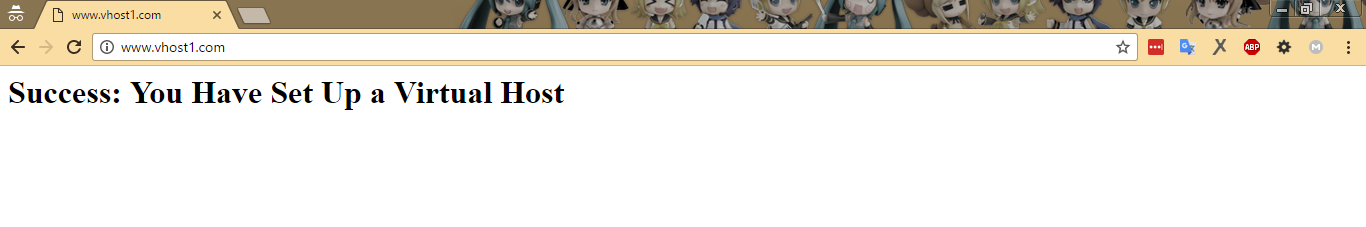
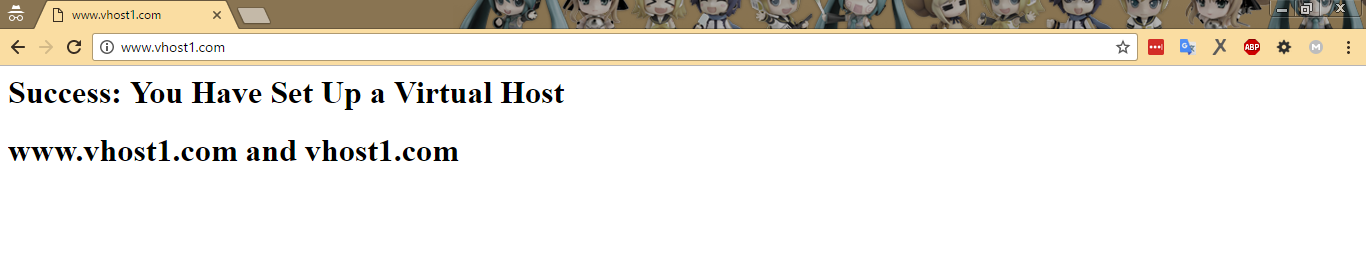
fixed

Changed region(s): [[0.0, 0.0, 1.0, 0.4934], [0.0, 0.5551, 0.3382, 0.6476]]

diff --git a/docs/nginx-virtualhost.md b/docs/nginx-virtualhost.md
@@ -3,32 +3,36 @@
 
 # Mục lục
 
-- [Virtual Host là gì?](#virtual-host)
-- [Cách tạo và cấu hình cho một Virtual Host](#configure)
-- [Cấu hình nhiều sử dụng nhiều Virtual Host trên cùng một server](#multiple-host)
+1. [Virtual Host là gì?](#virtual-host)
+2. [Cách tạo và cấu hình cho một Virtual Host](#configure)
+3. [Cấu hình nhiều sử dụng nhiều Virtual Host trên cùng một server](#multiple-host)
 
 # Nội dung
 
-- ##### <a name="virtual-host">Virtual Host là gì?</a>
+- #### <a name="virtual-host">Virtual Host là gì?</a>
     
     + *Virtual Host* là một kỹ thuật cho phép nhiều website có thể dùng chung một địa chỉ ip duy nhất. Thuật ngữ này được sử dụng với các website sử dụng Apache server. Trong các website sử dụng Nginx server thì nó được gọi là các *Server Block* sử dụng khai báo qua *server_name* trong file cấu hình và có thể lắng nghe các chỉ thị để liên kết với tcp sockets.
     + Đây là kỹ thuật dùng để cấu hình cho web server khi bạn muốn có nhiều tên miền để cung cấp nhiều website được sử dụng chung trên cùng một máy chủ.
         ![virtual host](../images/virhost.png)
 
 
-- ##### <a name="configure">Cách tạo và cấu hình cho một Virtual Host</a>
+- #### <a name="configure">Cách tạo và cấu hình cho một Virtual Host</a>
 
     + Để thiết lập được một *Server Block* trong nginx. Ta cần phải trải qua các bước sau:
-        
-        * Bước 1: Tạo một file cấu hình cho *Block Server* mới.
-        * Bước 2: Tạo một cây thư mục chứa nội dung website cho *Server Block* mới.
-        * Bước 3: Thêm nội dung của trang web để kiểm tra cấu hình
-    Đó là 3 bước cơ bản để tạo ra một *Server Block* mới trong nginx để chia sẻ địa chỉ ip cho nhiều website cùng sử dụng. Dưới đây sẽ là chi tiết về nội dung của 3 bước trên.
+        * Bước 1: [Cài đặt nginx trên CentOS 7](#1)
+        * Bước 2: [Tạo một file cấu hình cho *Block Server* mới.](#2)
+        * Bước 3: [Tạo một cây thư mục chứa nội dung website cho *Server Block* mới.](#3)
+        * Bước 4: [Thêm nội dung của trang web để kiểm tra cấu hình](#4)
+
+        Đó là 3 bước cơ bản để tạo ra một *Server Block* mới trong nginx để chia sẻ địa chỉ ip cho nhiều website cùng sử dụng. Dưới đây sẽ là chi tiết về nội dung của 4 bước trên.
 
 
+    + Bước 1: Cài đặt nginx trên CentOS 7:
+    <a name="1"></a>
+        - Xem chi tiết cài đặt [tại đây](nginx-install.md#2)
 
-    + Bước 1: Tạo một file cấu hình cho *Block Server* mới.
-
+    + Bước 2: Tạo một file cấu hình cho *Block Server* mới.
+ <a name="2"></a>
         - Trong thư mục cấu hình của nginx đã phân chia khá rõ ràng về tác dụng của các thư mục. Ta có */etc/nginx/nginx.conf* chính là file cấu hình chính cho nginx, */etc/nginx/conf.d/* là thư mục chứa các file cấu hình khác cho server, thông thường thì đây là thư mục được sử dụng để chứa các file cấu hình cho *Server Block*. Để tạo file cấu hình mới cho *Server Block* ta sử dụng câu lệnh sau:
 
                 # vi /etc/nginx/conf.d/vhost1.com.conf
@@ -53,8 +57,8 @@
 
                 192.168.19.35       vhost1.com www.vhost1.com
     
-    + Bước 2: Tạo một cây thư mục chứa nội dung website cho *Server Block* mới.
-
+    + Bước 3: Tạo một cây thư mục chứa nội dung website cho *Server Block* mới.
+ <a name="3"></a>
         - Ta cần tạo mới một cây thư mục để lưu trữ nội dung cho website có server_name mới này bằng việc sử dụng câu lệnh sau:
 
                 # mkdir /usr/share/nginx/vhost1.com
@@ -62,8 +66,8 @@
         
         - Ta cần chạy câu lệnh *chown nginx:nginx -R /usr/share/nginx/vhost1.com* để cho phép nginx có thể truy cập và sử dụng tài nguyên ở đó. Lưu ý là: cây thư mục vừa tạo cần phải giống với giá trị trong dòng *root* ở file cấu hình trong Bước 1.
 
-    + Bước 3: Thêm nội dung của trang web để kiểm tra cấu hình
-
+    + Bước 4: Thêm nội dung của trang web để kiểm tra cấu hình
+ <a name="4"></a>
         - Để kiểm tra cấu hình đã chính xác hay chưa, ta nên tạo thêm một file *index.html* trong thư mục vừa tạo ở bước 2 để kiểm tra. Ta sử dụng câu lệnh:
 
                 vi  /usr/share/nginx/vhost1.com/index.html
@@ -90,19 +94,24 @@
 
             Theo các bước làm trên, ta đã tiến hành thành công tạo một virtual host cho web server của mình.
 
-- ##### <a name="multiple-host">Cấu hình nhiều sử dụng nhiều Virtual Host trên cùng một server</a>
+- #### <a name="multiple-host">Cấu hình nhiều sử dụng nhiều Virtual Host trên cùng một server</a>
 
     + Nội dung trong phần này sẽ nói về cách để bạn thực hiện cấu hình server sao cho có thể nhiều website cùng sử dụng chung một địa chỉ ip duy nhất. Để thực hiện cấu hình, ta cần trải qua các bước sau:
 
-        - Bước 1: Cấu hình domain chính cho server.
-        - Bước 2: Cấu hình tạo ra các virtual host (Server Block)
-        - Bước 3: Thực hiện trỏ host trên client để kiểm tra kết quả
+        - Bước 1: Cài đặt nginx
+        - Bước 2: Cấu hình domain chính cho server.
+        - Bước 3: Cấu hình tạo ra các virtual host (Server Block)
+        - Bước 4: Thực hiện trỏ host trên client để kiểm tra kết quả
 
-        Đó là 3 bước chính để thực hiện cấu hình cho nội dung phần này. Chi tiết như sau:
+        Đó là 4 bước chính để thực hiện cấu hình cho nội dung phần này. Chi tiết như sau:
+    
+    + Bước 1: Cài đặt nginx
 
-    + Bước 1: Cấu hình domain chính cho server
+        Xem chi tiết [tại đây](nginx-install.md#2)
 
-        - Bản chất của bước này chính là tạo ra một domain chính cho server thay vì truy cập tới server qua địa chỉ ip. Để làm điều này, ta tiến hành sửa nội dung của file cấu hình chính cho nginx tại */etc/nginx/nginx.conf*. Tìm tới dòng có nội dung *server_name     _;* trong vùng cấu hình của *http*. Thay *_* bằng tên miền mà bạn muốn sử dụng. Ví dụ:
+    + Bước 2: Cấu hình domain chính cho server
+
+        - Ta tiến hành sửa nội dung của file cấu hình chính cho nginx tại */etc/nginx/nginx.conf*. Tìm tới dòng có nội dung *server_name     _;* trong vùng cấu hình của *http*. Thay *_* bằng tên miền mà bạn muốn sử dụng. Ví dụ:
 
                 http {
                     ...
@@ -114,9 +123,9 @@
                     ...
                 }
 
-    - Bước 2: Cấu hình tạo ra các Virtual Host.
+    - Bước 3: Cấu hình tạo ra các Virtual Host.
 
-        - Nội dung cấu hình trong bước làm này tương tự như tạo một virtual host đã nói phía trên. Bạn có thể xem chi tiết ở [đây](#configure). Giả sử, trong bước làm này, ta muốn cấu hình đặt 2 virtual host thì ta làm như sau:
+        - Nội dung cấu hình trong bước làm này tương tự như tạo một virtual host đã nói phía trên. Bạn có thể xem chi tiết ở [đây](#configure).
 
         - Bước 1: Tạo virtual host thứ nhất.
 
@@ -133,16 +142,16 @@
                         index   index.php index.html index.htm;
                     }
 
-            Tạo thư mục chứa website cho virtual host này:
+            - Tạo thư mục chứa website cho virtual host này:
 
                     # mkdir /usr/share/nginx/vhost1.com
                     # chown nginx:nginx -R /usr/share/nginx/vhost1.com
 
-            Tạo một file index.html để kiểm tra kết quả:
+            - Tạo một file index.html để kiểm tra kết quả:
 
-                # vi /usr/share/nginx/vhost1.com/index.html
+                    # vi /usr/share/nginx/vhost1.com/index.html
 
-            Thêm vào file nội dung sau:
+            - Thêm vào file nội dung sau:
 
                     <DOCTYPE html>
                     <html>
@@ -151,6 +160,7 @@
                       </head>
                       <body>
                         <h1>Success: You Have Set Up a Virtual Host</h1>
+                        <h1>www.vhost1.com and vhost1.com</h1>
                       </body>
                     </html>
 
@@ -169,16 +179,16 @@
                         index   index.php index.html index.htm;
                     }
 
-            Tạo thư mục chứa website cho virtual host này:
+            - Tạo thư mục chứa website cho virtual host này:
 
                     # mkdir /usr/share/nginx/vhost2.com
                     # chown nginx:nginx -R /usr/share/nginx/vhost2.com
 
-            Tạo một file index.html để kiểm tra kết quả:
+            - Tạo một file index.html để kiểm tra kết quả:
 
-                # vi /usr/share/nginx/vhost2.com/index.html
+                    # vi /usr/share/nginx/vhost2.com/index.html
 
-            Thêm vào file nội dung sau:
+            - Thêm vào file nội dung sau:
 
                     <DOCTYPE html>
                     <html>
@@ -187,10 +197,11 @@
                       </head>
                       <body>
                         <h1>Success: You Have Set Up a Virtual Host</h1>
+                        <h1>www.vhost2.com and vhost2.com</h1>
                       </body>
                     </html>
 
-        - Bước 3: Tiến hành cấu hình trỏ host trên client để kiểm tra bằng việc thêm nội dung sau vào file *C:\Windows\System32\drivers\etc/hosts* trên client theo dạng:
+        - Bước 4: Tiến hành cấu hình trỏ host trên client để kiểm tra bằng việc thêm nội dung sau vào file *C:\Windows\System32\drivers\etc/hosts* trên client theo dạng:
 
                 ip-address      server_name[s]
 
